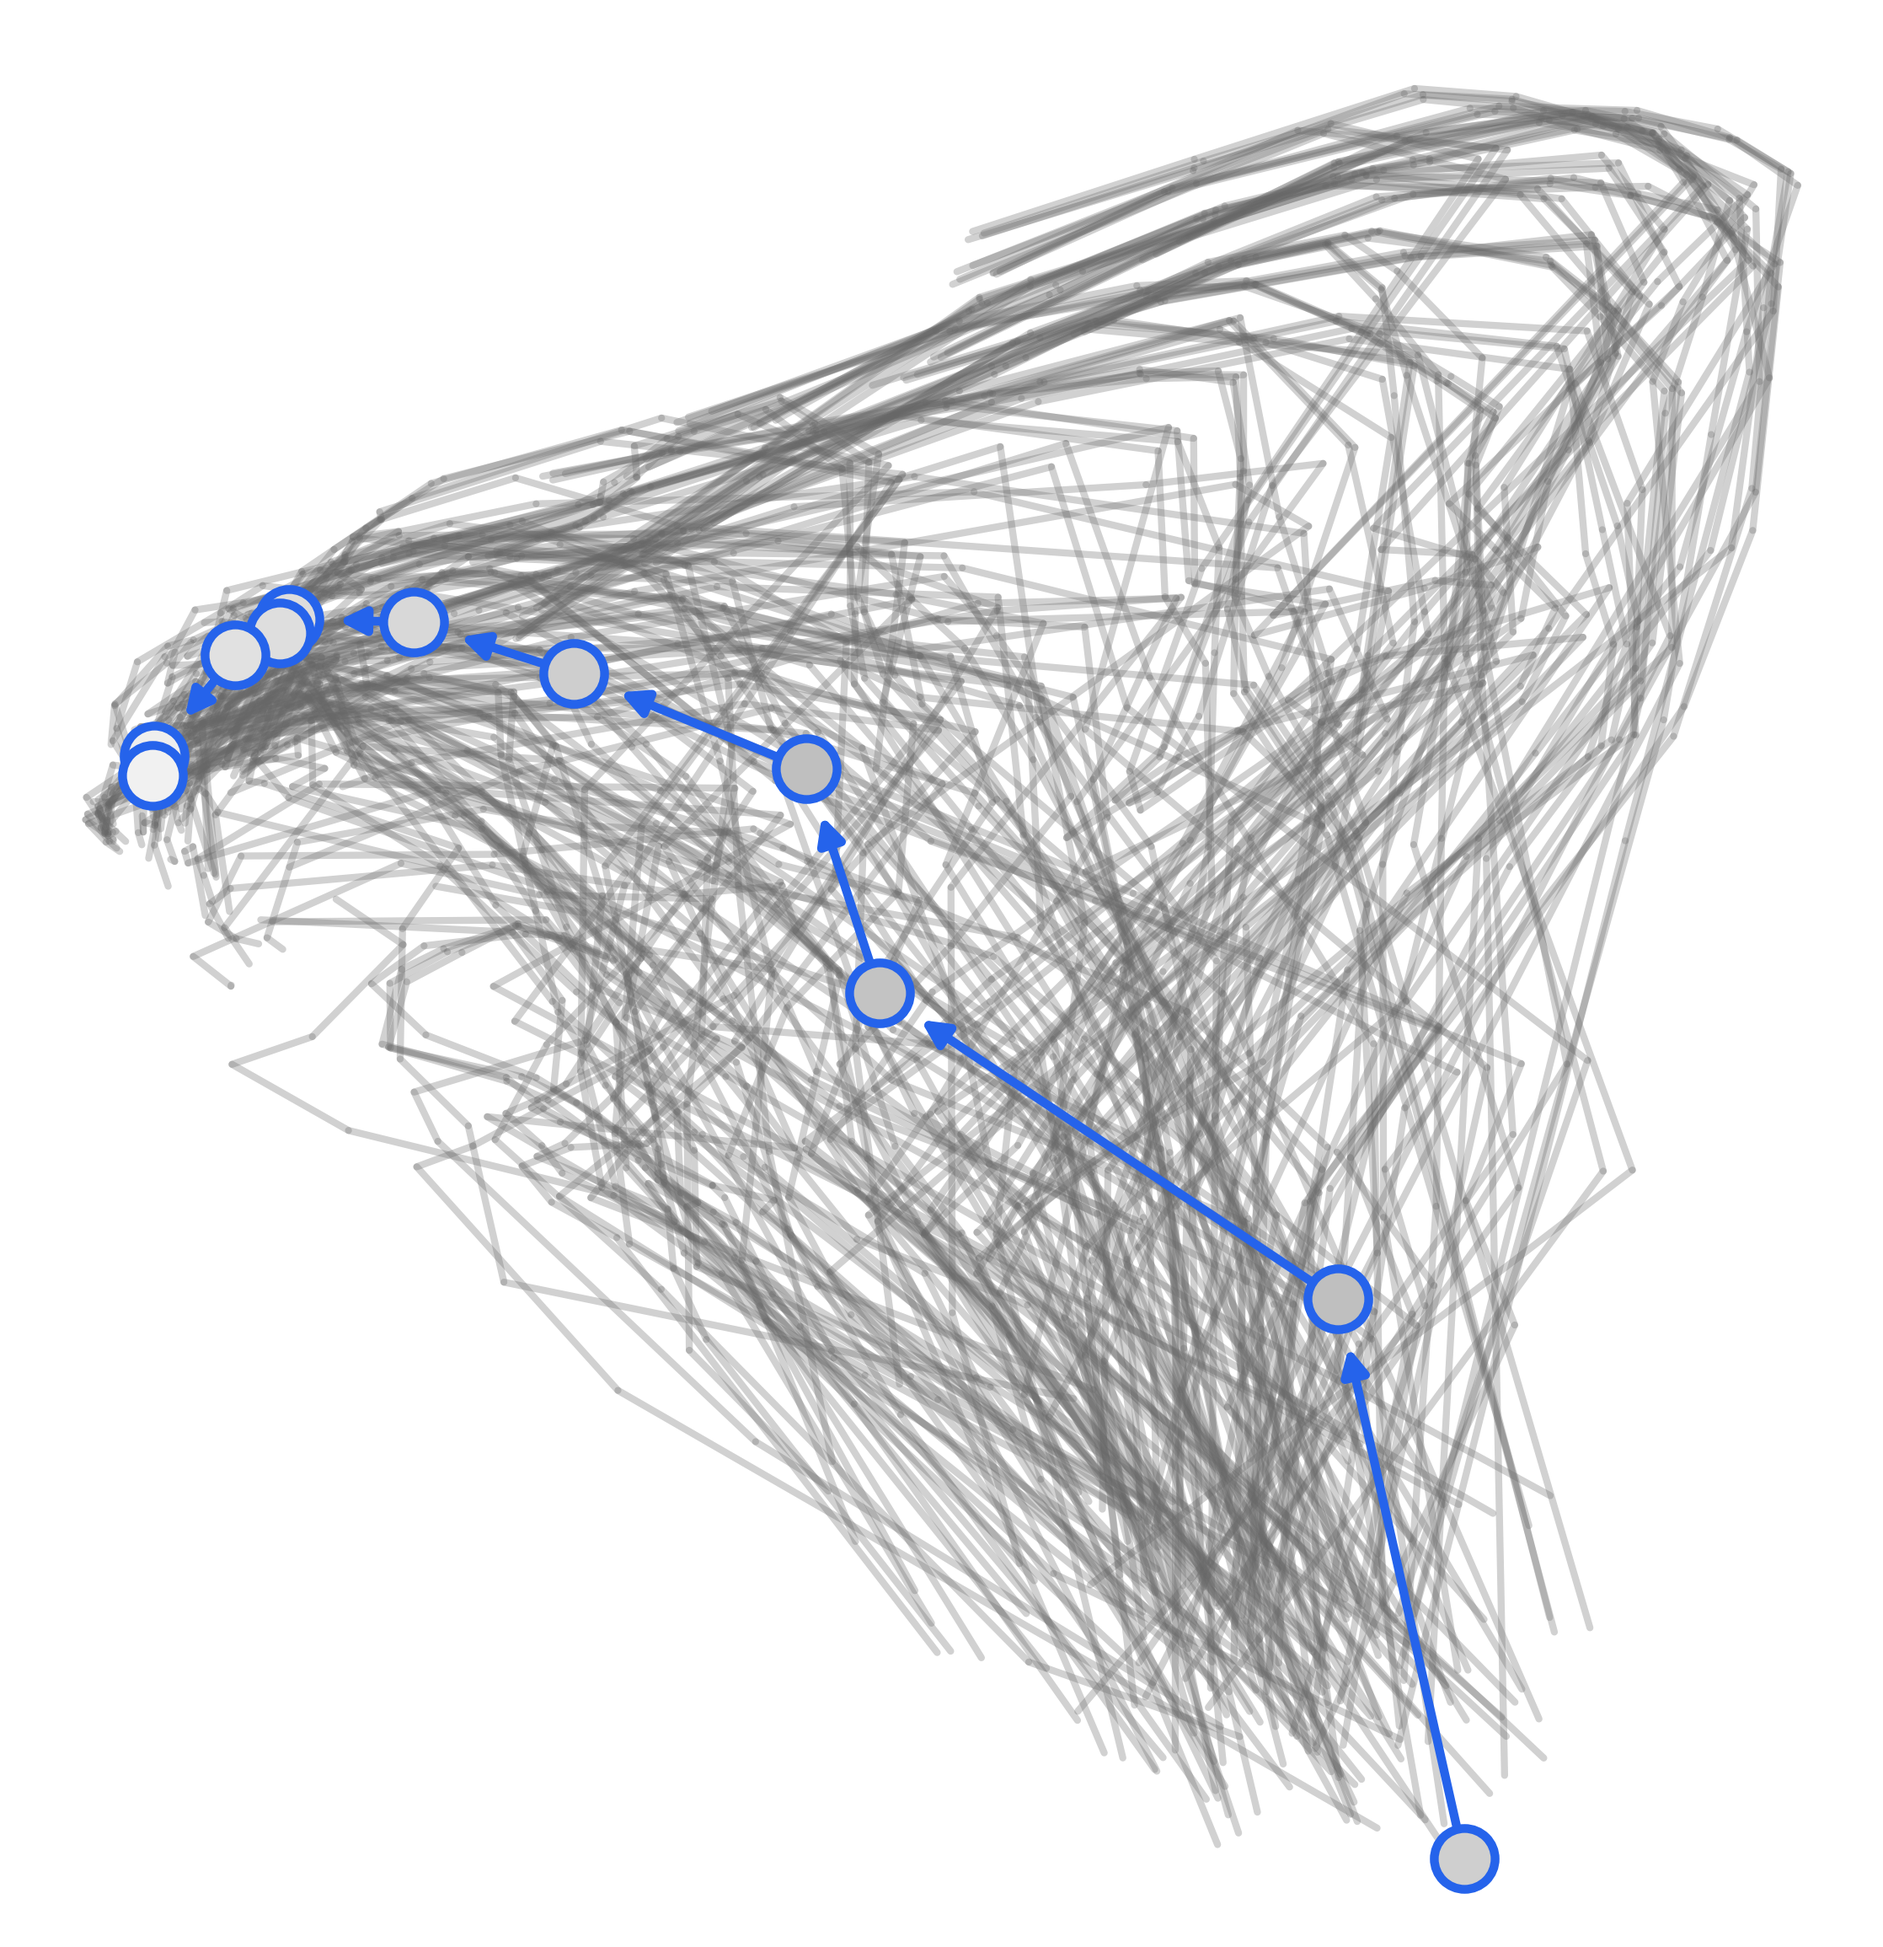
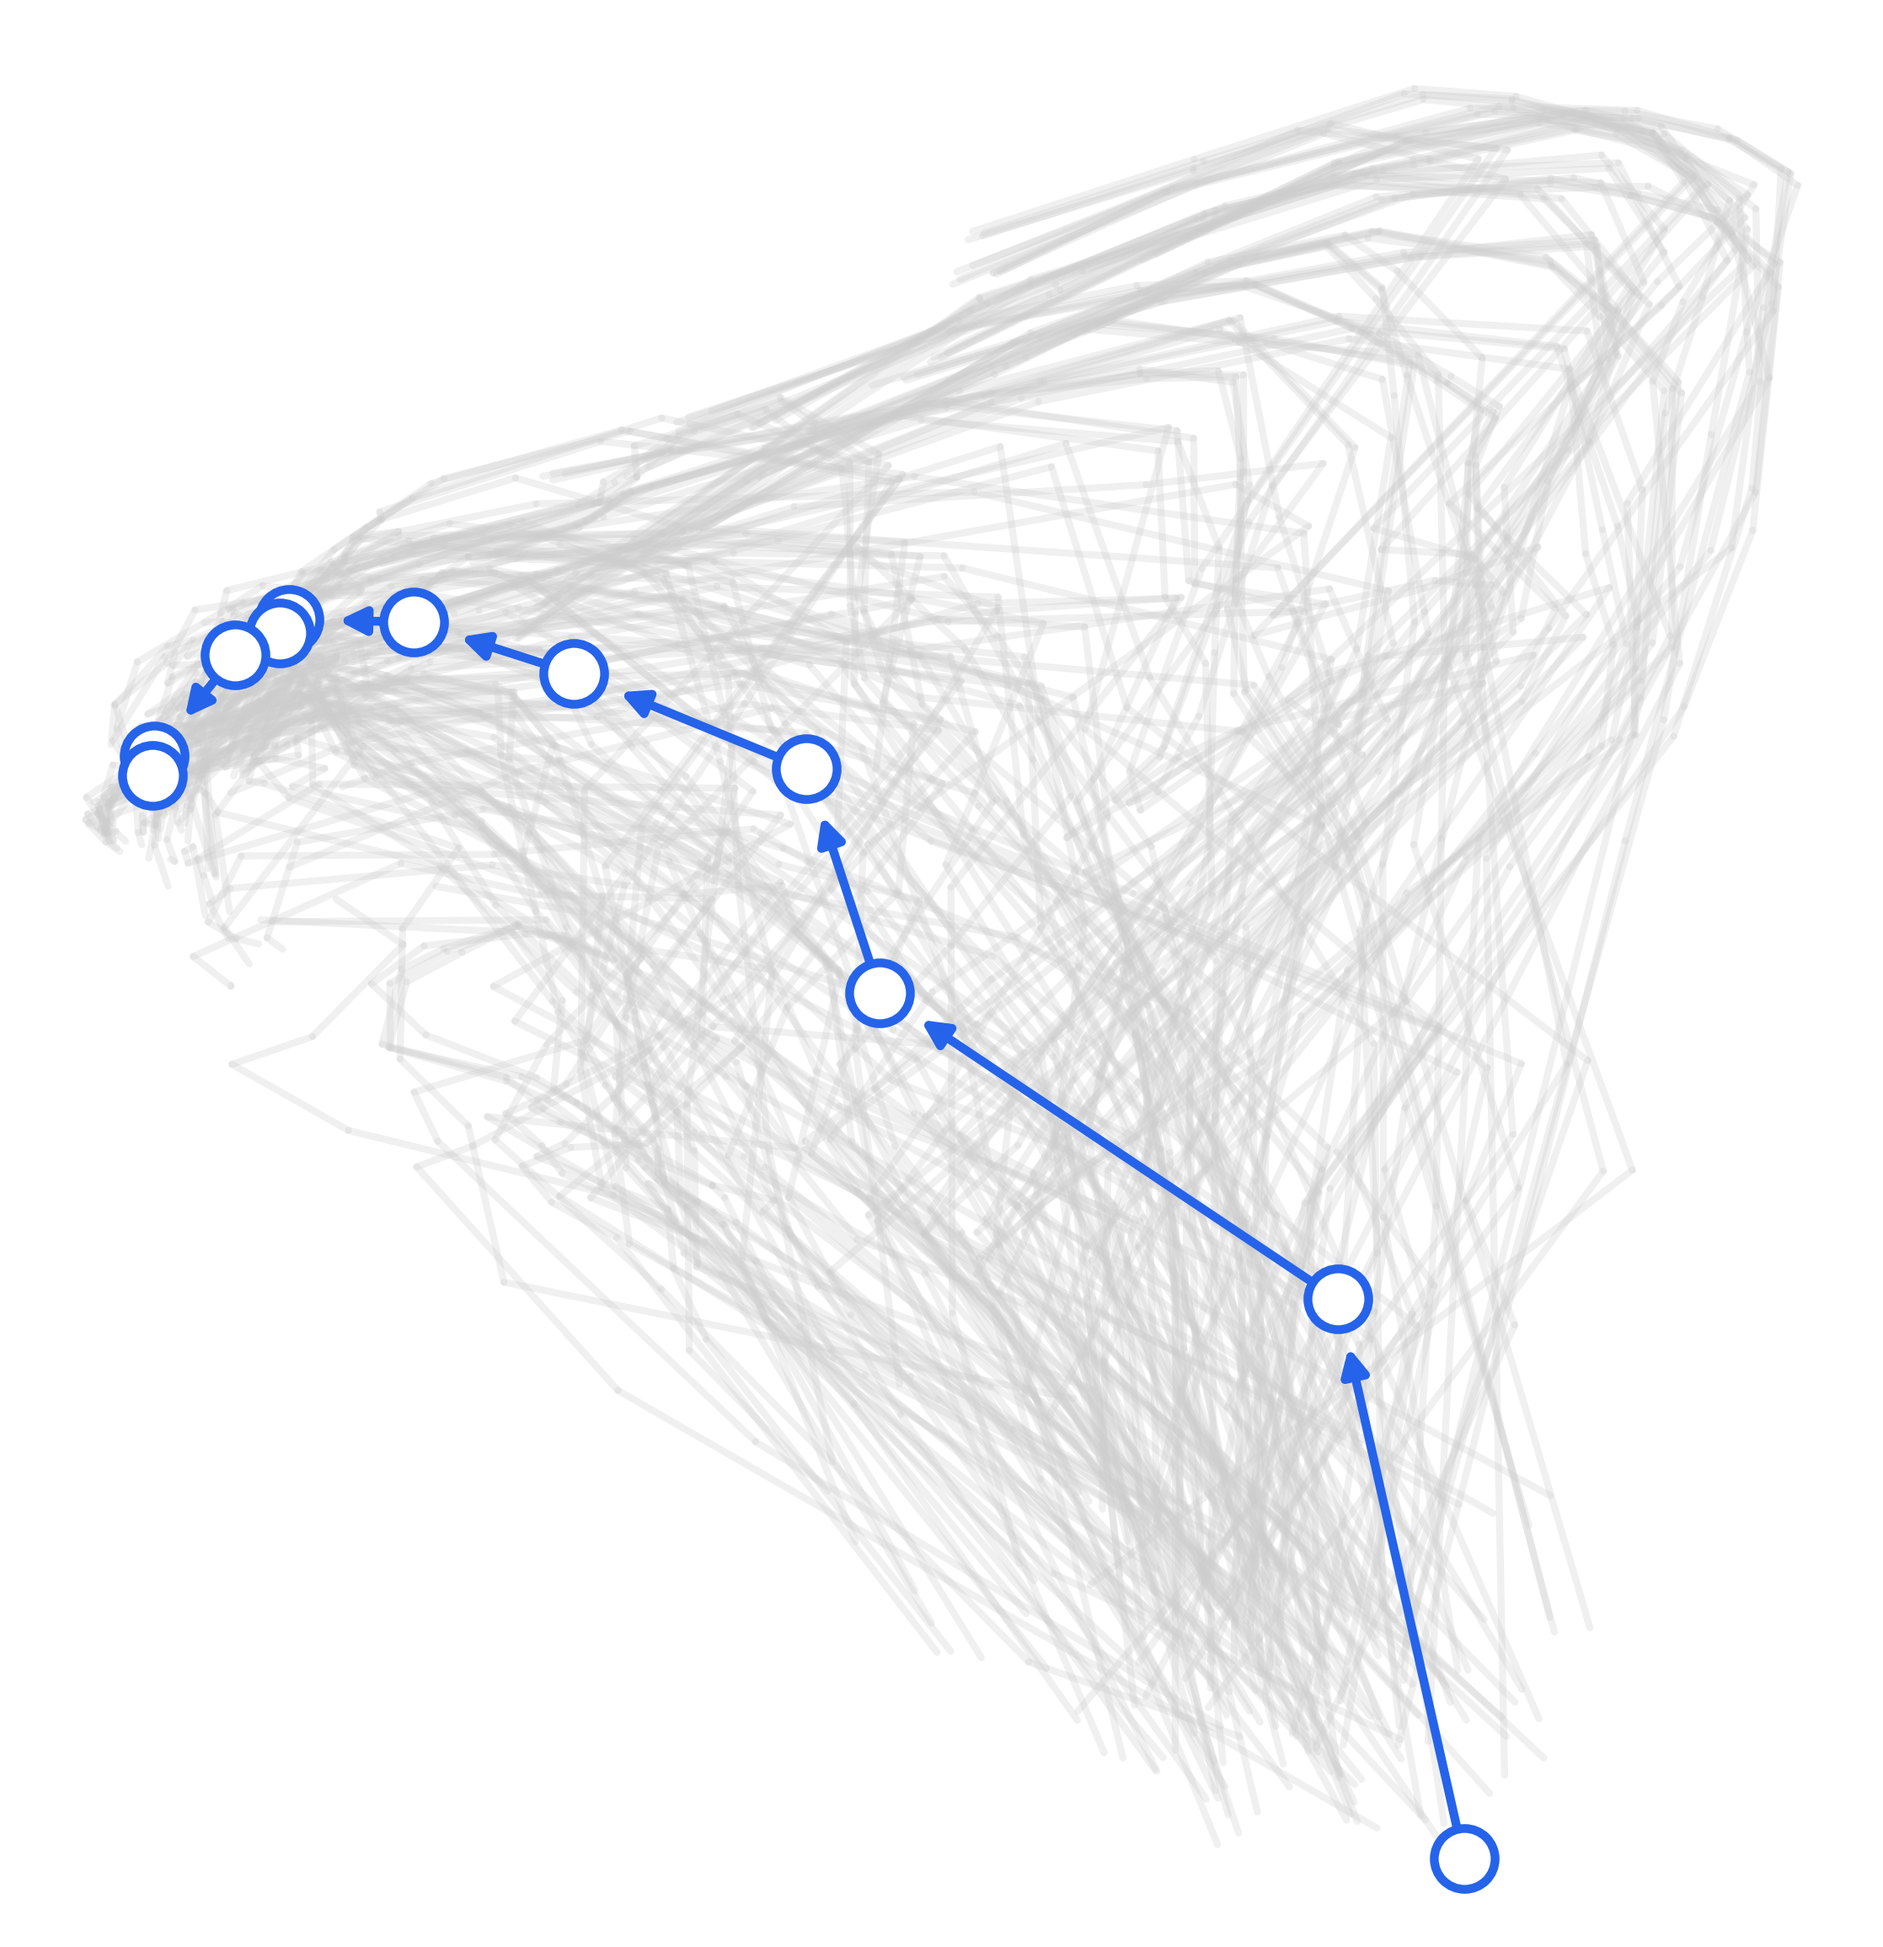
Figures: thread variants — light grey backdrop + white-fill markers
Adds --hl-marker-color flag that, when set, fills every highlighted
marker with one color instead of the per-step cmap. All three thread
variants now render with:

  --bg-color '#cccccc' (was '#666666' — too dark for the 'narrative
                        looks flat' reading)
  --hl-marker-color white (so the persona-strength gradient is fully
                           hidden — beads are flat white circles with
                           colored outlines)

The persona-coloring story stays out of the figures entirely until
the user introduces it in the thread.

diff --git a/figures/pc_highlighted.py b/figures/pc_highlighted.py
@@ -108,6 +108,12 @@ def main() -> None:
         help="Marker size for highlighted trajectory points.",
     )
     ap.add_argument(
+        "--hl-marker-color", default=None,
+        help="If set, fill every highlighted marker with this color "
+             "(e.g. 'white') instead of the per-step cmap. Useful for "
+             "narrative figures that want flat beads.",
+    )
+    ap.add_argument(
         "--hl-arrow-scale", type=float, default=15,
         help="mutation_scale for the per-segment arrowheads on the "
              "highlighted trajectories. Bigger = larger arrowheads.",
@@ -257,9 +263,14 @@ def main() -> None:
             )
             ax.add_patch(arrow)
         for r in rows:
+            fill = (
+                args.hl_marker_color
+                if args.hl_marker_color is not None
+                else color_for(t_cos(r["cos"]))
+            )
             ax.scatter(
                 r["pc"][0], r["pc"][1],
-                c=color_for(t_cos(r["cos"])),
+                c=fill,
                 s=args.hl_marker_size,
                 edgecolors=edge_color,
                 linewidths=args.hl_linewidth,
